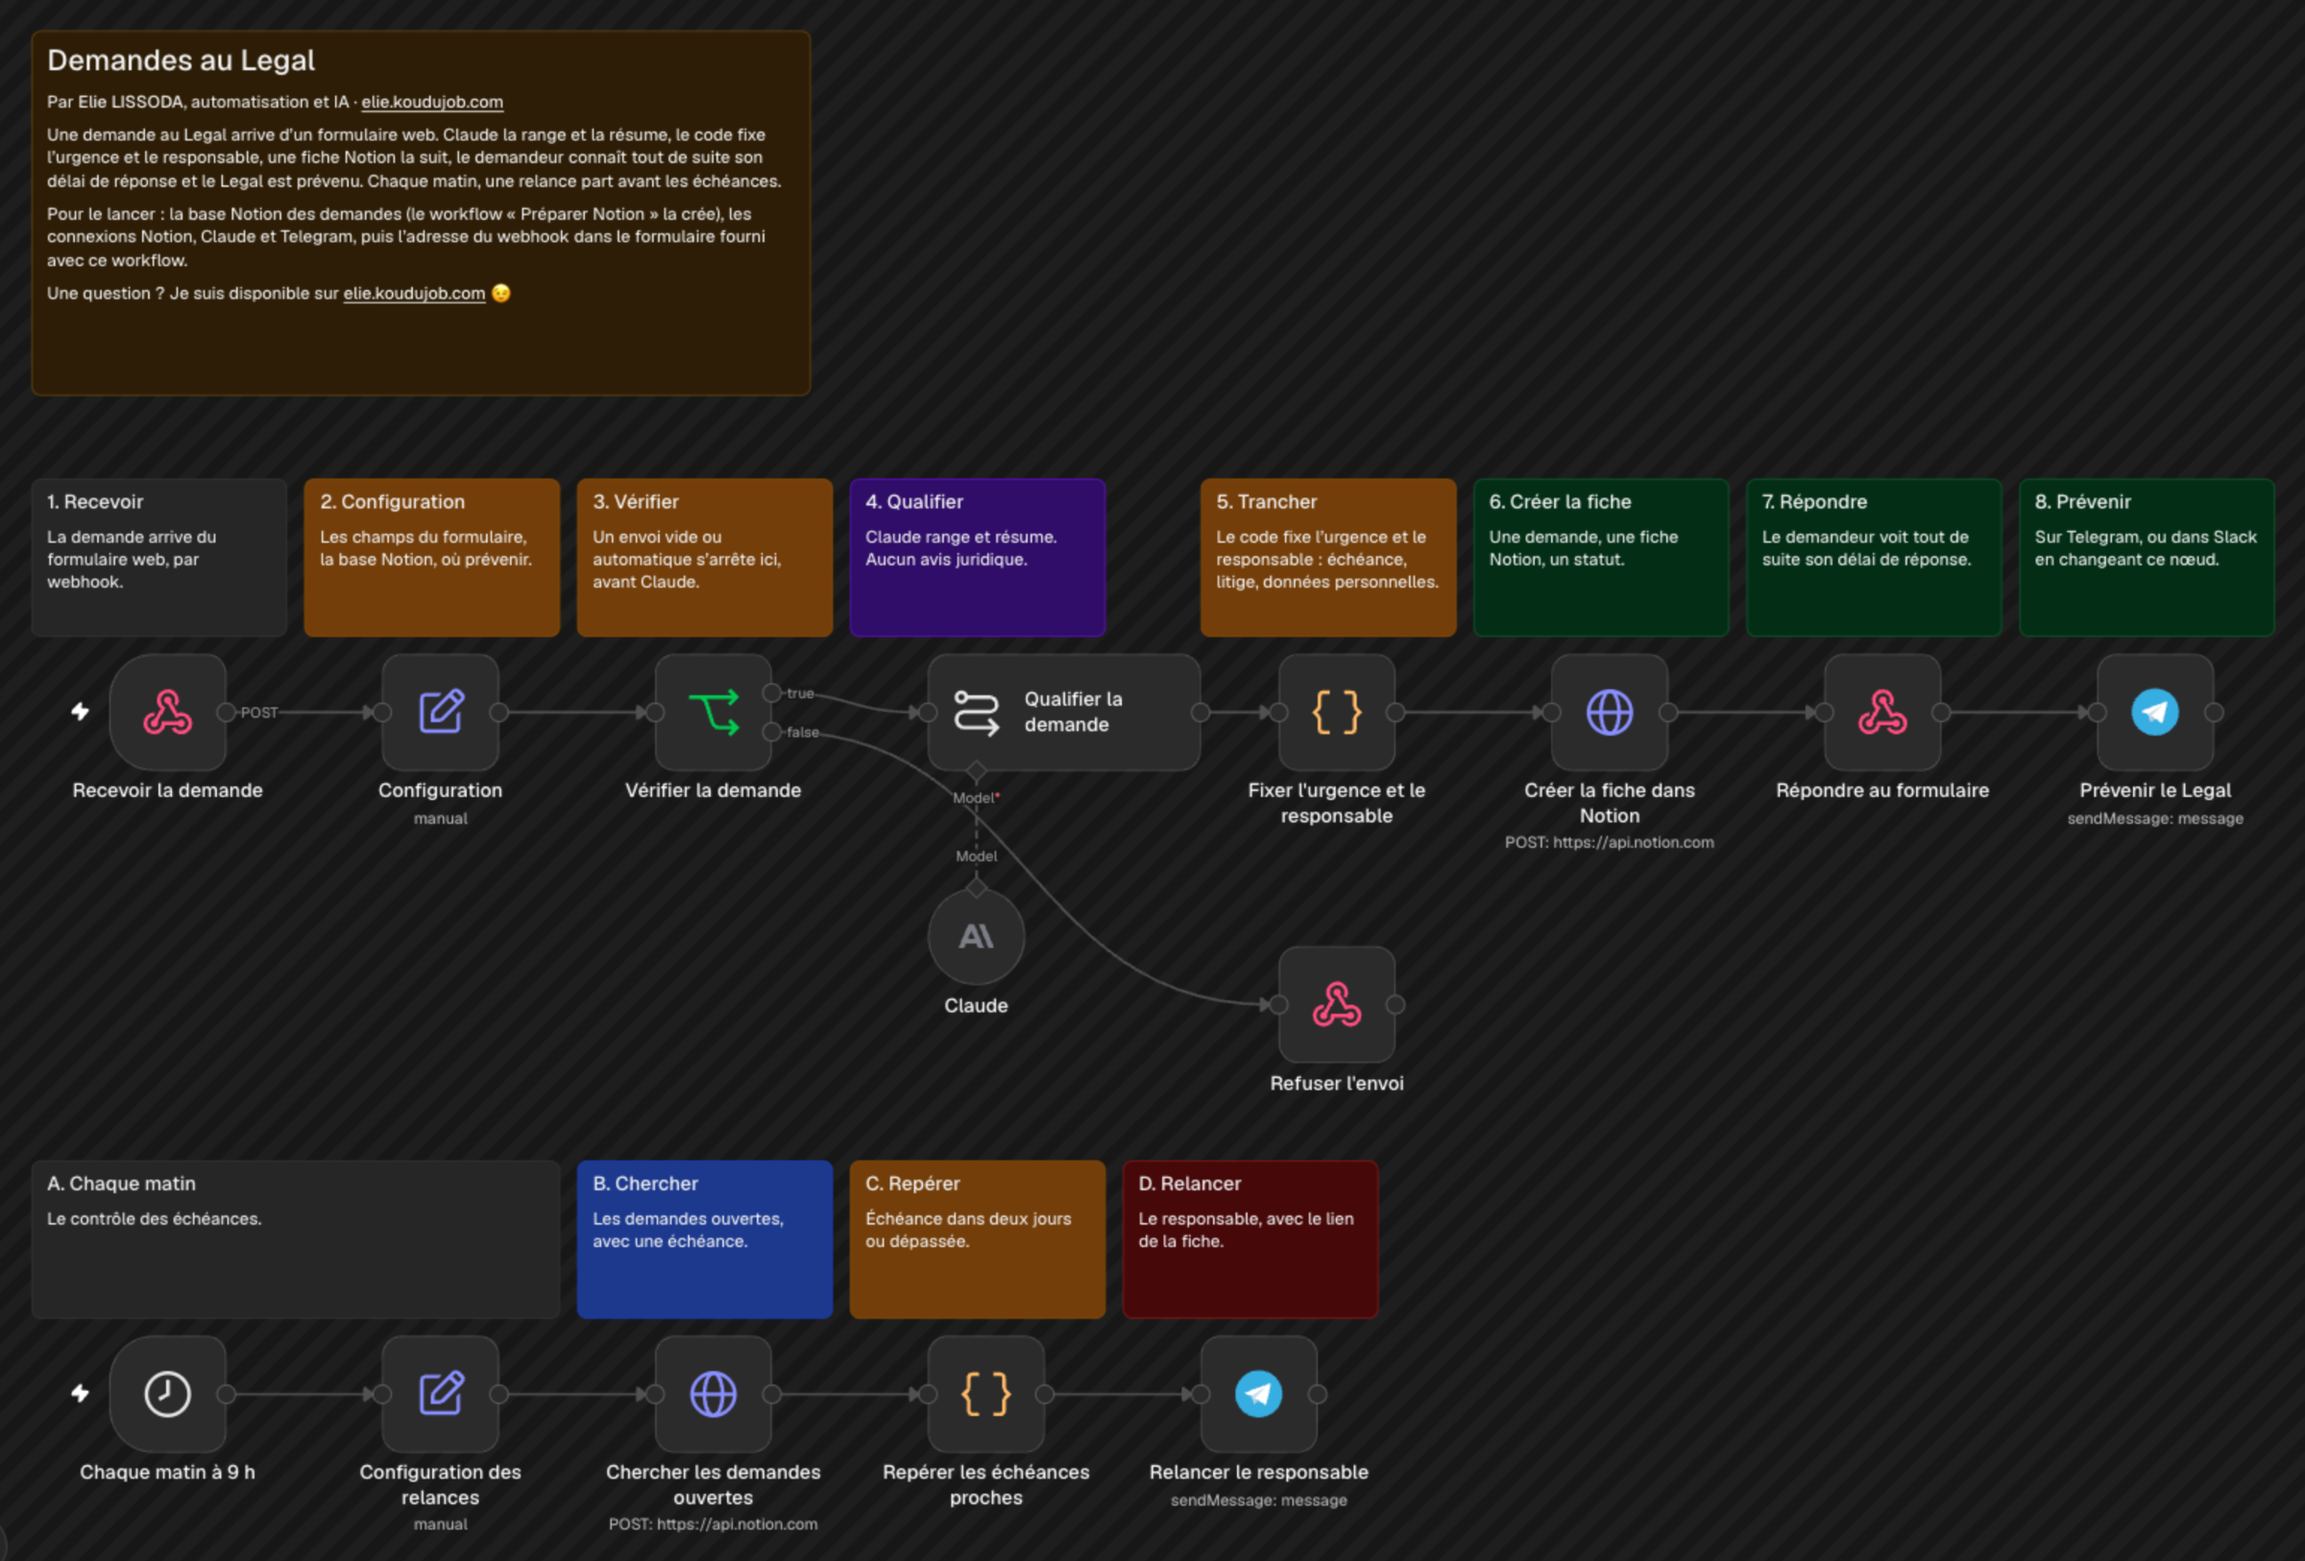
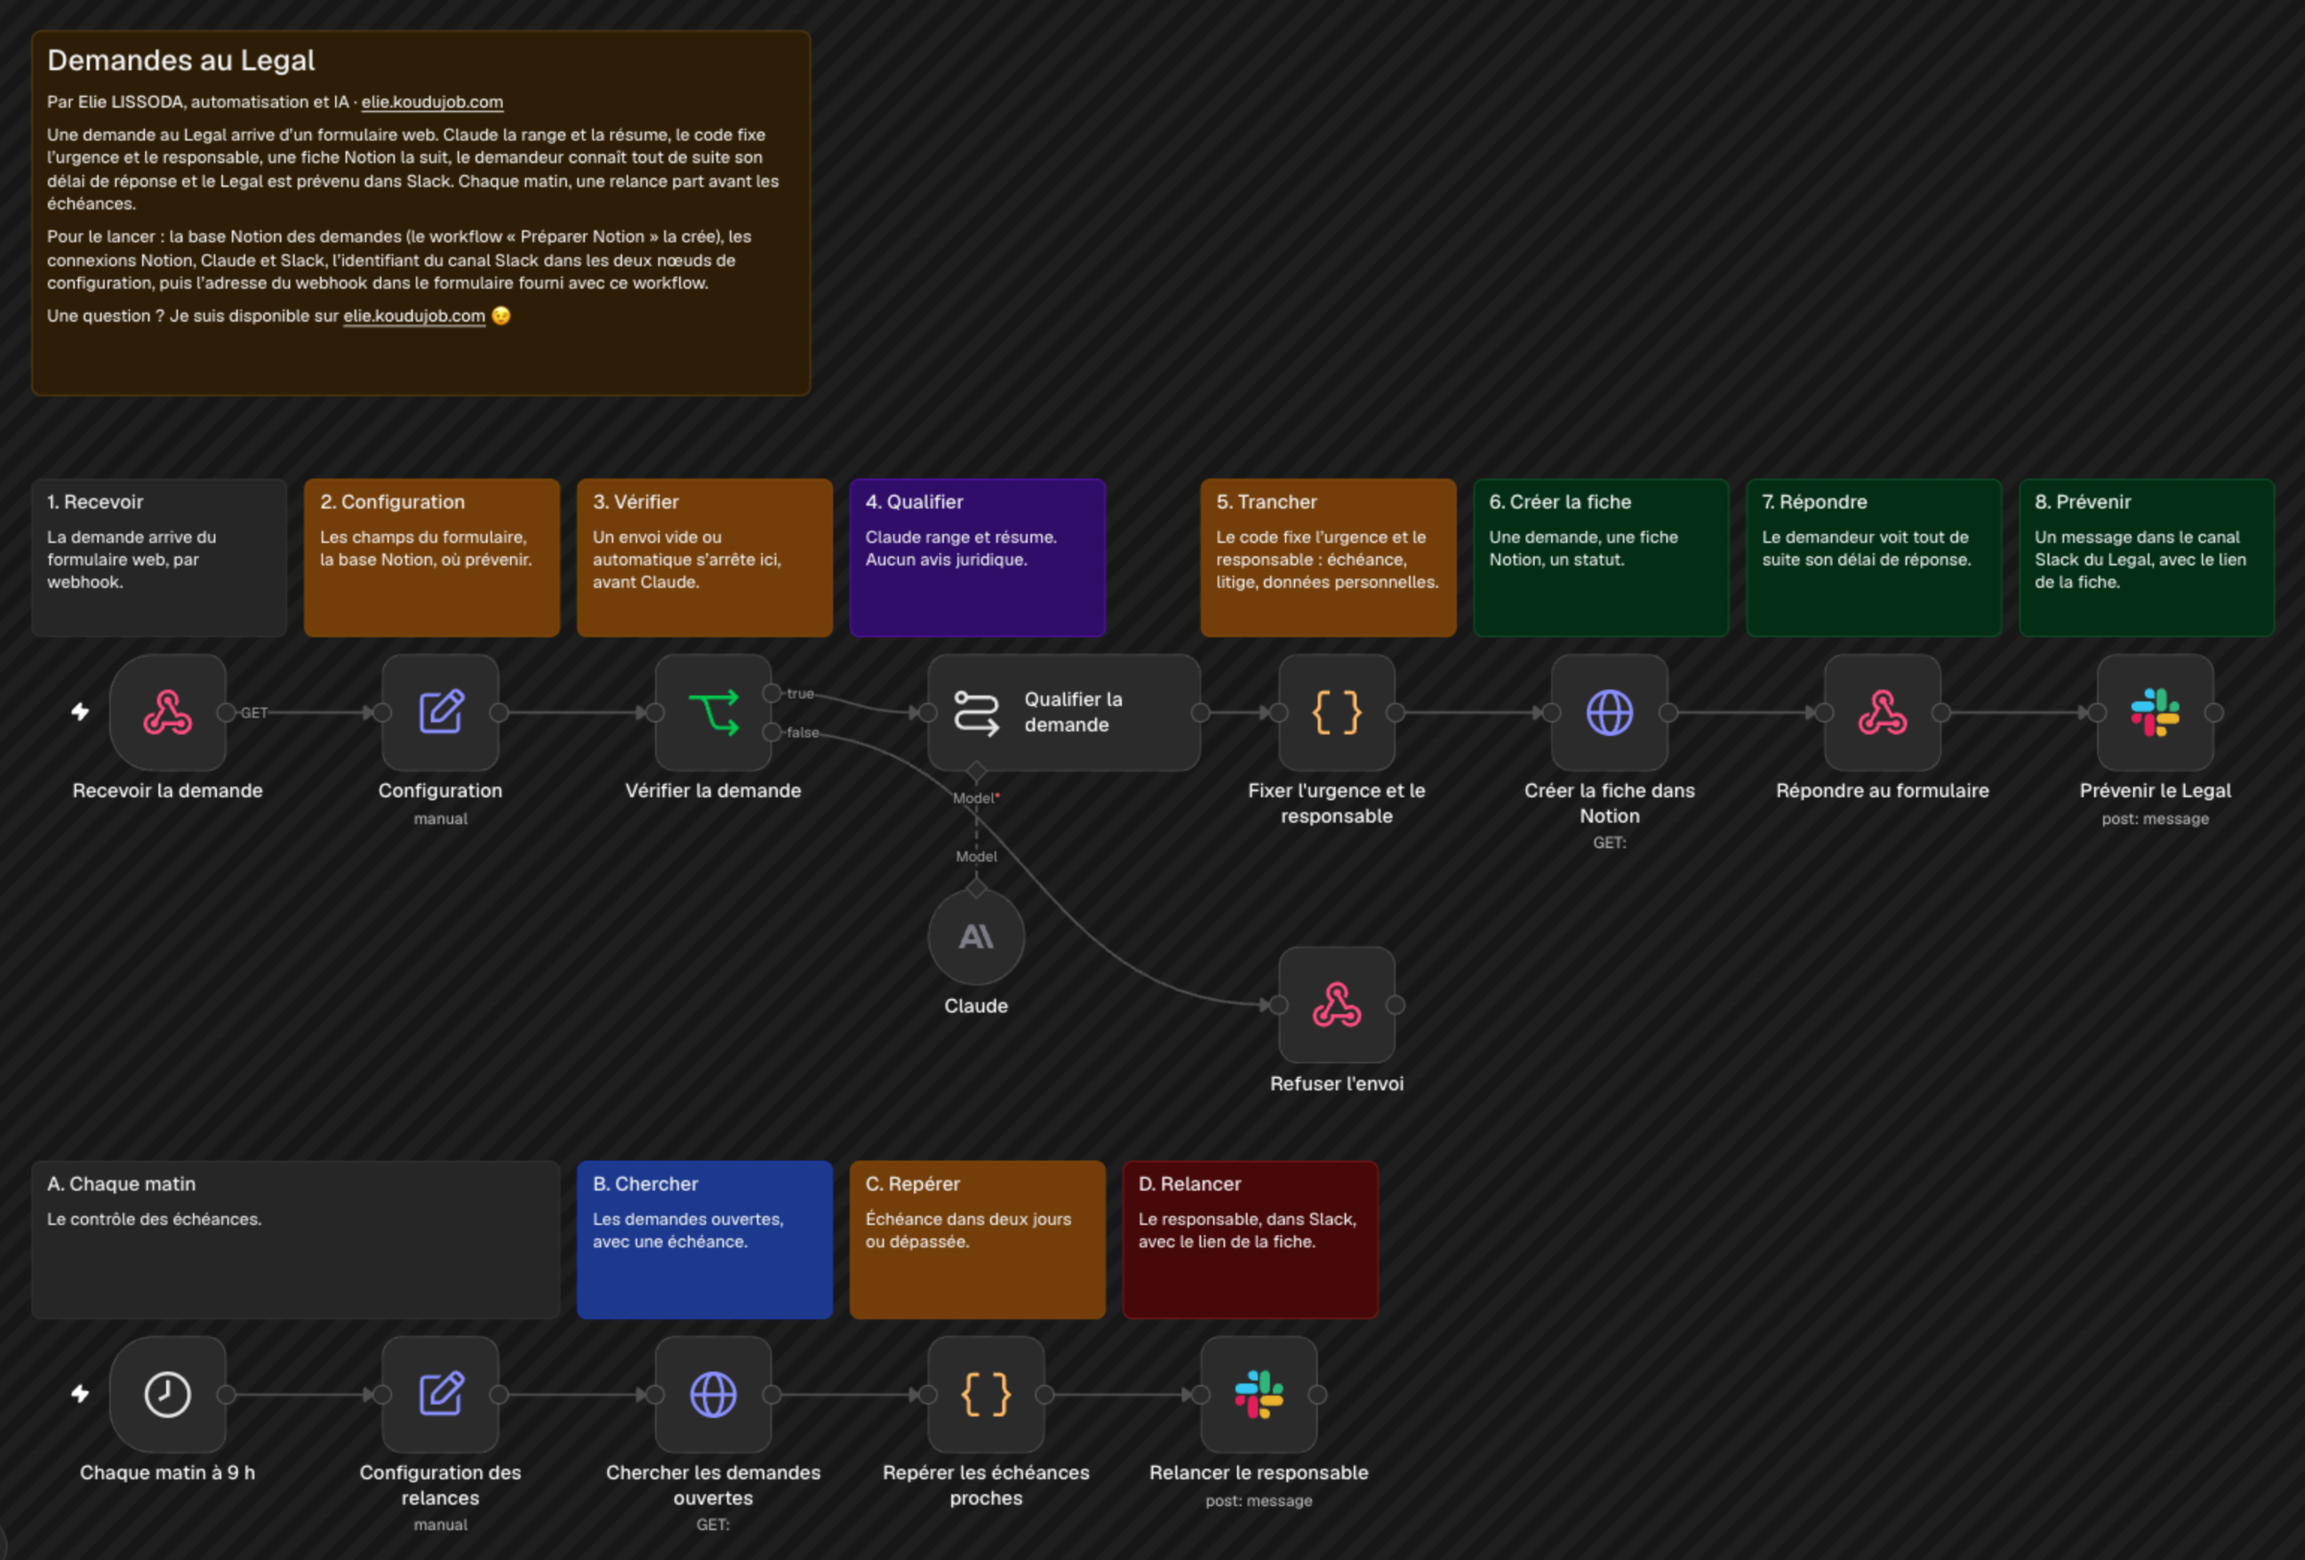
Branche les demandes au Legal et le point du lundi sur Slack
Demandes au Legal : l'alerte et la relance du matin passent par Slack au lieu de Telegram.
Point du lundi : une version courte du point part dans le canal Slack du recrutement, en plus du mail.
Notes, READMEs, liste du dépôt et aperçus mis à jour.

diff --git a/point-recrutement-lundi/README.md b/point-recrutement-lundi/README.md
@@ -1,6 +1,6 @@
 # Point recrutement du lundi
 
-Le lundi matin, l'équipe recrutement passe souvent une heure à sortir ses chiffres avant de pouvoir décider. Ici, le point arrive tout prêt par mail : ce qui a bougé, ce qui bloque, trois décisions, et les relances déjà rangées dans Notion.
+Le lundi matin, l'équipe recrutement passe souvent une heure à sortir ses chiffres avant de pouvoir décider. Ici, le point arrive tout prêt, par mail et dans Slack : ce qui a bougé, ce qui bloque, trois décisions, et les relances déjà rangées dans Notion.
 
 ![Le workflow dans n8n](apercu.png)
 
@@ -10,18 +10,18 @@ Le lundi matin, l'équipe recrutement passe souvent une heure à sortir ses chif
 2. **Lire les candidatures.** L'export de votre ATS, rangé dans une table n8n : une ligne par candidature, une date par étape.
 3. **Calculer.** Le code calcule tout : l'entonnoir et ses taux de passage, le délai moyen entre deux étapes, les sources qui amènent les bons candidats, la charge de chaque recruteur, les candidats en attente depuis plus de 10 jours.
 4. **Rédiger.** Claude écrit le point à partir de ces chiffres, en 120 mots au plus. Il n'en invente aucun et n'en recalcule aucun.
-5. **Envoyer.** Un mail lisible : quatre chiffres clés, le texte de Claude, la semaine comparée à la précédente, la liste des relances et un bouton vers Notion.
+5. **Envoyer.** Un mail lisible : quatre chiffres clés, le texte de Claude, la semaine comparée à la précédente, la liste des relances et un bouton vers Notion. Et une version courte dans le canal Slack du recrutement, avec le lien des relances.
 6. **Créer les relances.** Chaque candidat bloqué devient une tâche Notion assignée à son recruteur, avec l'action proposée. Une tâche déjà créée pour ce point ne l'est jamais une deuxième fois.
 
-Testé sur 423 candidatures fictives : mail reçu, 9 relances créées, aucune en double au second lancement.
+Testé sur 423 candidatures fictives : mail reçu, message Slack publié, 9 relances créées, aucune en double au second lancement.
 
 ## Pour l'installer
 
 1. Créez la table n8n « Candidatures », toutes les colonnes en texte : candidat, poste, famille, recruteur, source, etape_actuelle, statut, motif_refus, recue_le, premier_echange_le, business_case_le, entretien_metier_le, entretien_inverse_le, entretien_final_le, offre_le, embauche_le. Les dates s'écrivent AAAA-MM-JJ, le statut vaut « En cours », « Refusé » ou « Embauché ».
 2. Pour essayer sans vos données, importez `charger-les-exemples.workflow.json`, choisissez la table dans ses deux nœuds et lancez-le : il la remplit de 423 candidatures fictives sur 12 semaines, jusqu'à aujourd'hui.
-3. Créez un identifiant Notion (intégration interne), un identifiant Anthropic et un identifiant Gmail.
+3. Créez un identifiant Notion (intégration interne), un identifiant Anthropic, un identifiant Gmail et un identifiant Slack : une app Slack avec les droits `chat:write`, `chat:write.public` et `channels:read`, dont vous collez le jeton du bot (`xoxb-`).
 4. Importez `preparer-notion.workflow.json`. Partagez une page Notion avec votre intégration, collez son identifiant dans Configuration et lancez-le une fois : il crée la base « Relances recrutement ».
-5. Importez `workflow.json` et choisissez la table dans « Lire les candidatures ». Dans Configuration, indiquez le destinataire, l'identifiant et le lien de la base des relances, et le seuil de relance. Publiez.
+5. Importez `workflow.json` et choisissez la table dans « Lire les candidatures ». Dans Configuration, indiquez le destinataire, l'identifiant et le lien de la base des relances, le seuil de relance et l'identifiant du canal Slack. Publiez.
 
 Les huit étapes suivies vont de la candidature à l'embauche, business case et entretien inversé compris. Pour un autre processus, adaptez la liste `ETAPES` du nœud « Calculer les indicateurs ».
 

diff --git a/demandes-legal/README.md b/demandes-legal/README.md
@@ -14,20 +14,20 @@ Les questions au Legal arrivent par Slack, par mail, entre deux portes. Ce workf
 4. **Trancher.** Le code, pas l'IA, fixe l'urgence et le responsable avec des règles lisibles : un litige ou une échéance à deux jours passe en urgence haute, réponse sous 24 heures. Les données personnelles et les contrats de travail passent en urgence moyenne.
 5. **Suivre.** Une fiche Notion par demande : type, urgence, responsable, échéance, statut.
 6. **Répondre.** Le formulaire affiche au demandeur son délai, son responsable et ce qu'il peut envoyer pour aller plus vite.
-7. **Prévenir.** Le Legal reçoit l'alerte sur Telegram, avec le lien de la fiche.
-8. **Relancer.** Chaque matin à 9 h, une demande ouverte dont l'échéance tombe dans les deux jours, ou est dépassée, déclenche une relance au responsable.
+7. **Prévenir.** Le Legal reçoit l'alerte dans son canal Slack, avec le lien de la fiche.
+8. **Relancer.** Chaque matin à 9 h, une demande ouverte dont l'échéance tombe dans les deux jours, ou est dépassée, déclenche une relance au responsable, dans le même canal Slack.
 
-Testé avec des demandes fictives envoyées depuis le formulaire : fiche Notion, alerte et réponse affichée en moins de 10 secondes.
+Testé avec des demandes fictives envoyées depuis le formulaire : fiche Notion, alerte Slack et réponse affichée en moins de 10 secondes.
 
 ## Pour l'installer
 
-1. Créez un identifiant Notion (intégration interne), un identifiant Anthropic et un identifiant Telegram.
+1. Créez un identifiant Notion (intégration interne), un identifiant Anthropic et un identifiant Slack : une app Slack avec les droits `chat:write`, `chat:write.public` et `channels:read`, installée dans votre espace, dont vous collez le jeton du bot (il commence par `xoxb-`).
 2. Importez `preparer-notion.workflow.json`. Partagez une page Notion avec votre intégration, collez son identifiant dans Configuration et lancez-le une fois : il crée la base « Demandes au Legal ».
-3. Importez `workflow.json`. Dans Configuration, collez l'identifiant de la base et votre identifiant de conversation Telegram. Faites de même dans « Configuration des relances ».
+3. Importez `workflow.json`. Dans Configuration, collez l'identifiant de la base et l'identifiant du canal Slack du Legal (dans Slack : clic droit sur le canal, Copier le lien, puis la fin du lien qui commence par C). Faites de même dans « Configuration des relances ».
 4. Dans « Recevoir la demande », remplacez `https://votre-site.fr` par l'adresse du site qui hébergera le formulaire, puis publiez le workflow.
 5. Dans `formulaire/index.html`, remplacez `https://VOTRE-N8N/webhook/demande-legal` par l'adresse de production du webhook, puis mettez la page en ligne.
 
-Chaque demande consomme un appel à Claude, facturé sur votre compte Anthropic. Pour prévenir le Legal dans Slack, remplacez les deux nœuds Telegram.
+Chaque demande consomme un appel à Claude, facturé sur votre compte Anthropic. Le canal doit être public, ou l'app doit y être invitée.
 
 ---
 
